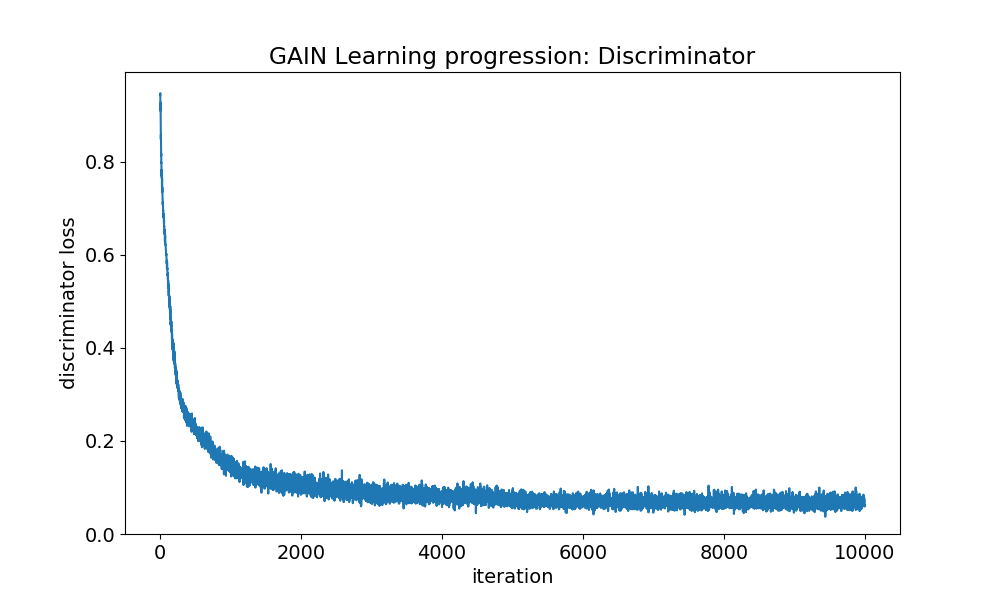
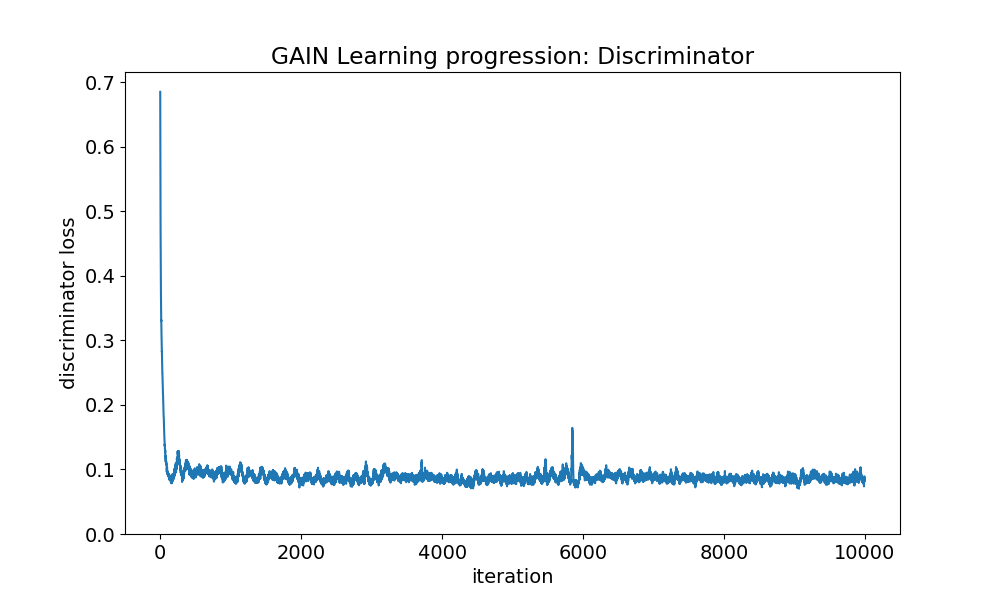
prepare to run gain

diff --git a/GAIN/gain.py b/GAIN/gain.py
@@ -170,12 +170,12 @@ def gain (data_x, num_imputations, gain_parameters, filename = 'imputed'):
     sess.run([G_solver, G_loss_temp, MSE_loss],
              feed_dict = {X: X_mb, M: M_mb, H: H_mb})
     # save current loss
-    generator_loss.append(G_loss_curr+alpha*MSE_loss_curr)
+    generator_loss.append(G_loss_curr)
     discriminator_loss.append(D_loss_curr)
 
   ## save learning progression as a figure
-  # print('>>> exporting learning curve')
-  # plot_loss(generator_loss, discriminator_loss)
+  print('>>> exporting learning curve')
+  plot_loss(generator_loss, discriminator_loss)
 
   multiple_imputation = []
   for imputation_index in range(num_imputations):
